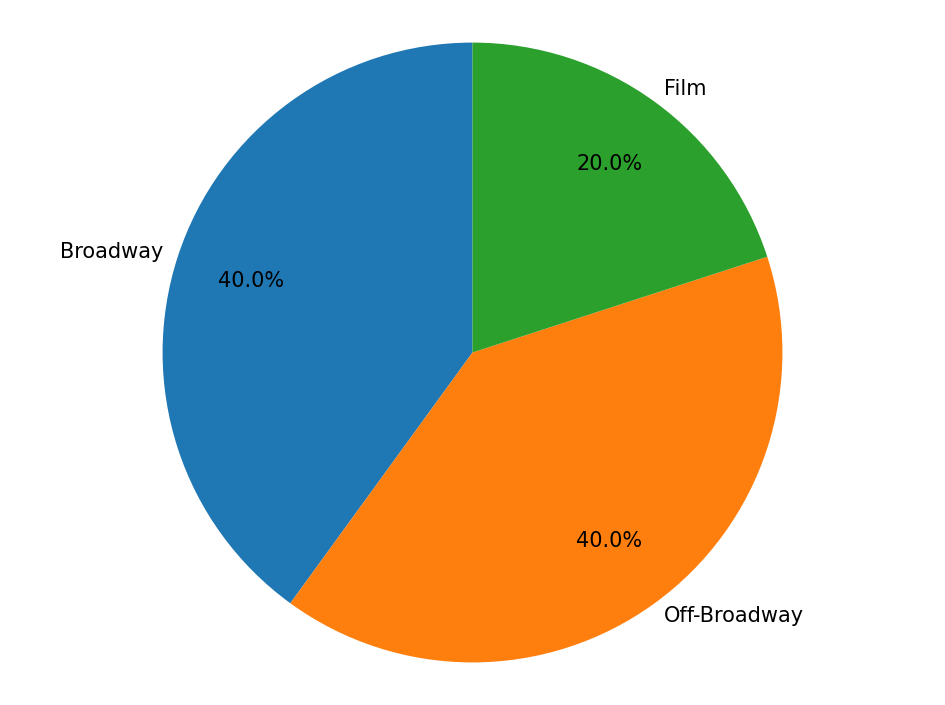
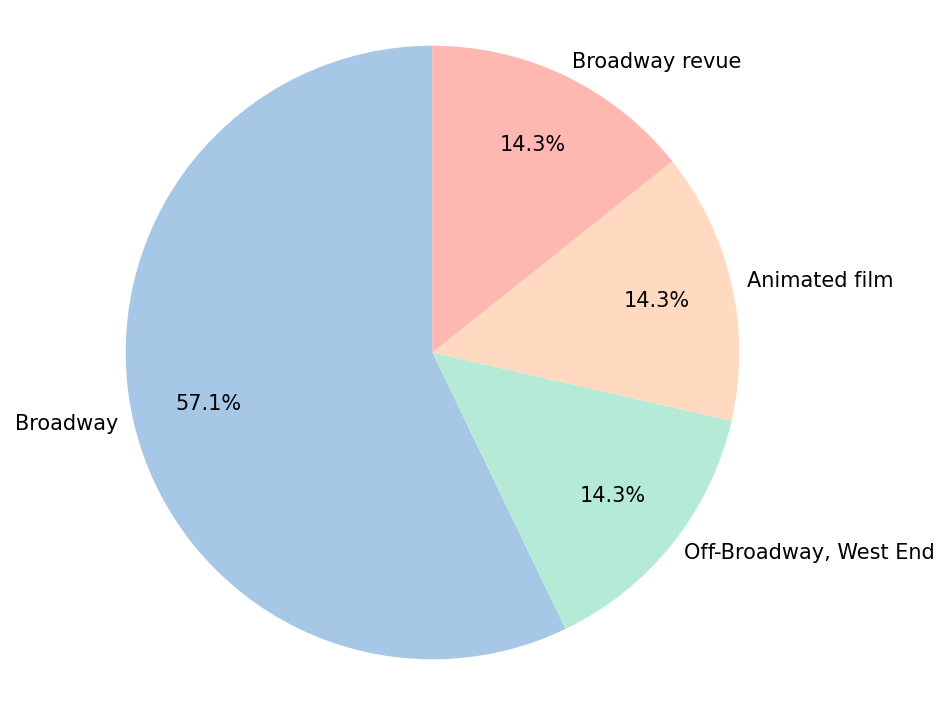
#24 beautification of diagrams, improved css for results and #31 number of hits

diff --git a/search_engine_project/static/results.css b/search_engine_project/static/results.css
@@ -1,25 +1,29 @@
 #search-info {
-  display: flex;
-  align-items: center;
-  margin: 30px auto;
-  flex-wrap: wrap;   /* allows stacking on narrow screens */
-  /*background: rgba(255, 255, 255, 0.35);*/
-
-
-
-}
-
-#search-info h1,
-#search-info p {
-  color: white;
-  font-size: 200%;
-  margin: 0px;
- /*background: rgba(255, 255, 255, 0.7);  /* white with 40% opacity */
-  padding: 3px;
-  border-radius: 12px;
+  margin: 20px auto 30px auto;
   max-width: 500px;
+  padding: 15px 20px;
+
+  /* Optional subtle background for readability */
+  background: rgba(255, 255, 255);
+  border-radius: 12px;
 }
 
+#search-info p {
+  color: black;
+  font-size: 1.2rem;
+  margin: 6px 0 10px;
+  line-height: 1.4;
+}
+
+#search-info p b {
+  color: lightblue; /* optional: makes labels stand out */
+}
+
+#search-info h1 {
+  color: white;
+  font-size: 2rem;
+  margin-bottom: 10px;
+}
 
 
 /* Put bar and pie chart side-by-side */

diff --git a/search_engine_project/templates/results.html b/search_engine_project/templates/results.html
@@ -10,17 +10,18 @@
 <body>
   {% include "nav.html" %}
 
-  <header>
-    <div id="search-info">
-    <h1>Results for</h1>
-    <p><b>query:</b> "{{ query }}"</p>
-    <p><b>with search method:</b> {{ method }}.</p>
-    </div>
-    <p>Total hits: {{total_hits}} </p>
-    <a id="link-back" href="{{ url_for('search') }}">Back to search</a>
-  </header>
+<header>
+  <h1>Results</h1>
+
+</header>
+
 
   <main>
+  <div id="search-info">
+    <p><b>Query:</b> "{{ query }}"</p>
+    <p><b>Search method:</b> {{ method }}</p>
+    <p><b>Total hits:</b> {{ total_hits }}</p>
+  </div>
 
     <div class="charts-row">
     {% if plot_file %}

diff --git a/search_engine_project/templates/musical.html b/search_engine_project/templates/musical.html
@@ -16,9 +16,10 @@
   </header>
 
   <main>
-    <p>{{ musical["description"] }}</p>
+    <p> DESCRIPTION <br> <br> {{ musical["description"] }}</p>
 
     <div class="synopsis">
+      SYNOPSIS <br> <br>
       {{ musical.render_synopsis()|safe }}
     </div>
   </main>

diff --git a/search_engine_project/visualisations.py b/search_engine_project/visualisations.py
@@ -42,6 +42,16 @@ def venue_pie_topn(venues, filename="piechart.png", top_n=6, other_label="Other"
         labels.append(other_label)
         sizes.append(other_sum)
 
+    colors = [
+        "#A7C7E7",  # light powder blue
+        "#B5EAD7",  # mint green
+        "#FFDAC1",  # peach pink
+        "#FFB7B2",  # rose pink
+        "#C7CEEA",  # lilac-blue
+        "#D5F4E6",  # pale seafoam
+        "#A3E7FF"  # pastel turquoise blue
+    ]
+
     plt.figure()
     wedges, texts, autotexts = plt.pie(
         sizes,
@@ -49,7 +59,9 @@ def venue_pie_topn(venues, filename="piechart.png", top_n=6, other_label="Other"
         autopct=lambda pct: f"{pct:.1f}%" if pct >= 2 else "",  # show labels >= 2%
         startangle=90,
         pctdistance=0.75,
-        labeldistance=1.05
+        labeldistance=1.05,
+        colors=colors[:len(sizes)]
+
     )
     plt.axis('equal')
 
@@ -87,13 +99,22 @@ def years_bar(years, filename="barplot.png"):
     
     filepath = os.path.join("static", filename).replace("\\", "/")
     #print(filepath)
+    pastel_playbill_bars = [
+        "#9FC3EB",  # slightly deeper powder blue
+        "#AEE9D1",  # mint green with more saturation
+        "#FFCDB2",  # warm peach pink
+        "#FFB4A2",  # soft rose pink
+        "#BFC8F5",  # pastel lilac-blue with clearer tone
+        "#CFF7E3",  # pale seafoam green
+        "#A3E7FF"  # pastel turquoise blue
+    ]
+    colors = pastel_playbill_bars
+    plt.bar(decade_labels, y, color=colors[:len(x)], edgecolor="#666666")
 
-    #plt.figure(figsize=(8,4))
-    plt.bar(decade_labels, y)
     #print(len(years))
 
     #plt.title("Musicals according to their release year")
-    plt.xlabel("Year released")
+    plt.xlabel("Time period")
     plt.ylabel("Number of musicals")
 
     #we do not need decimals so show integers only on y-axis
